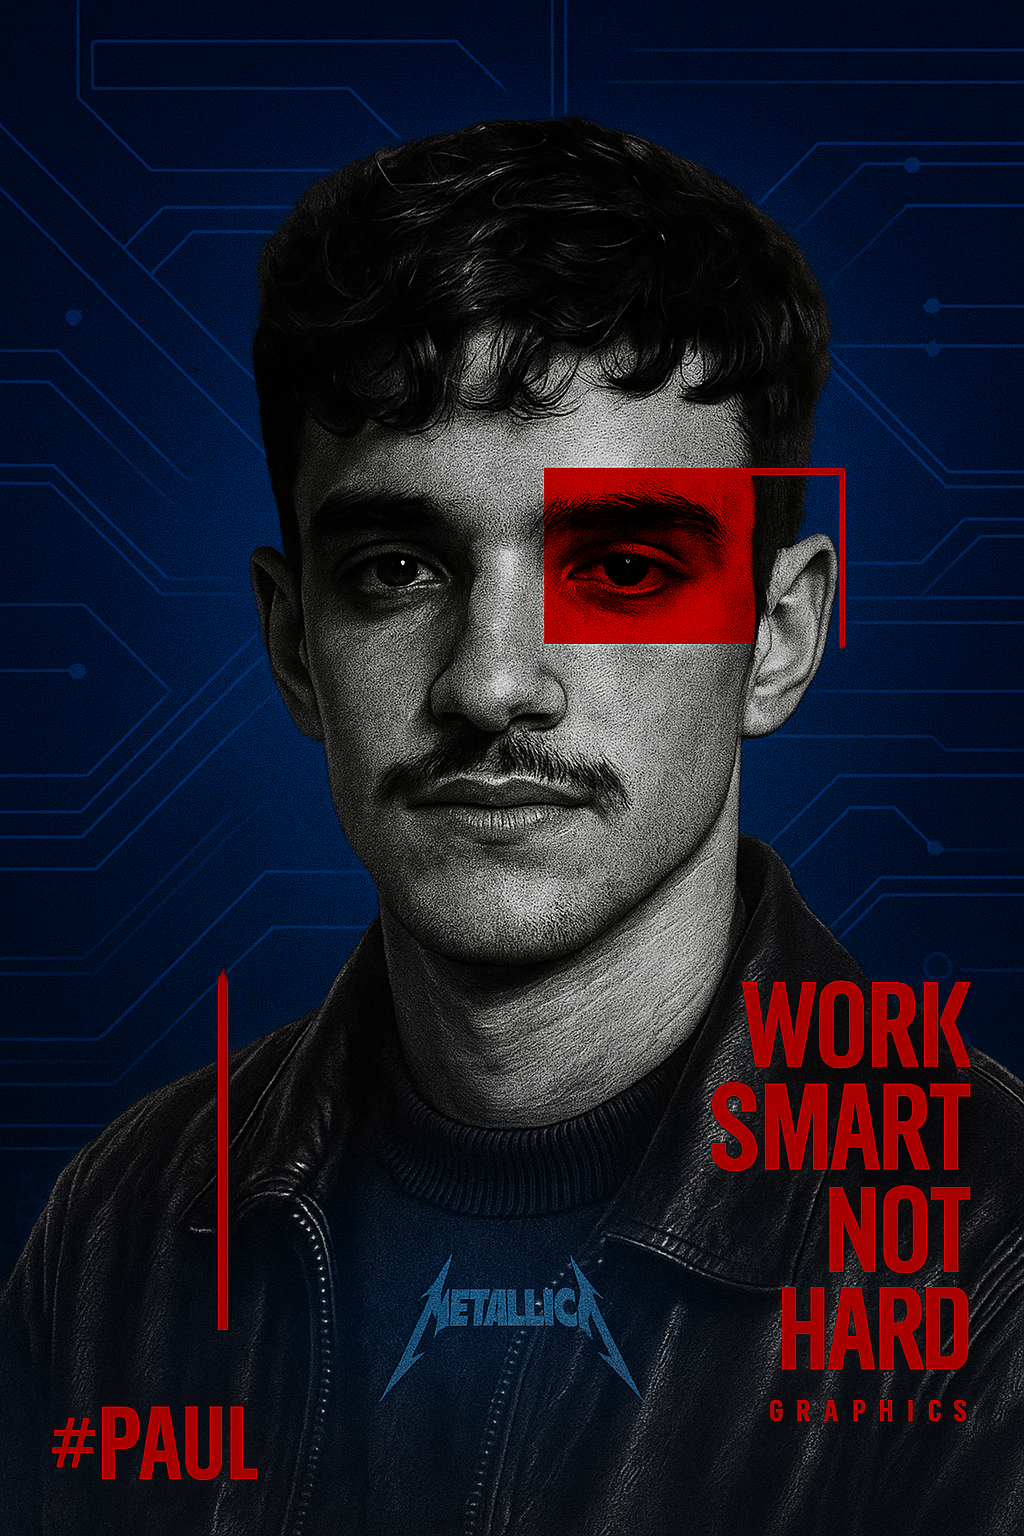
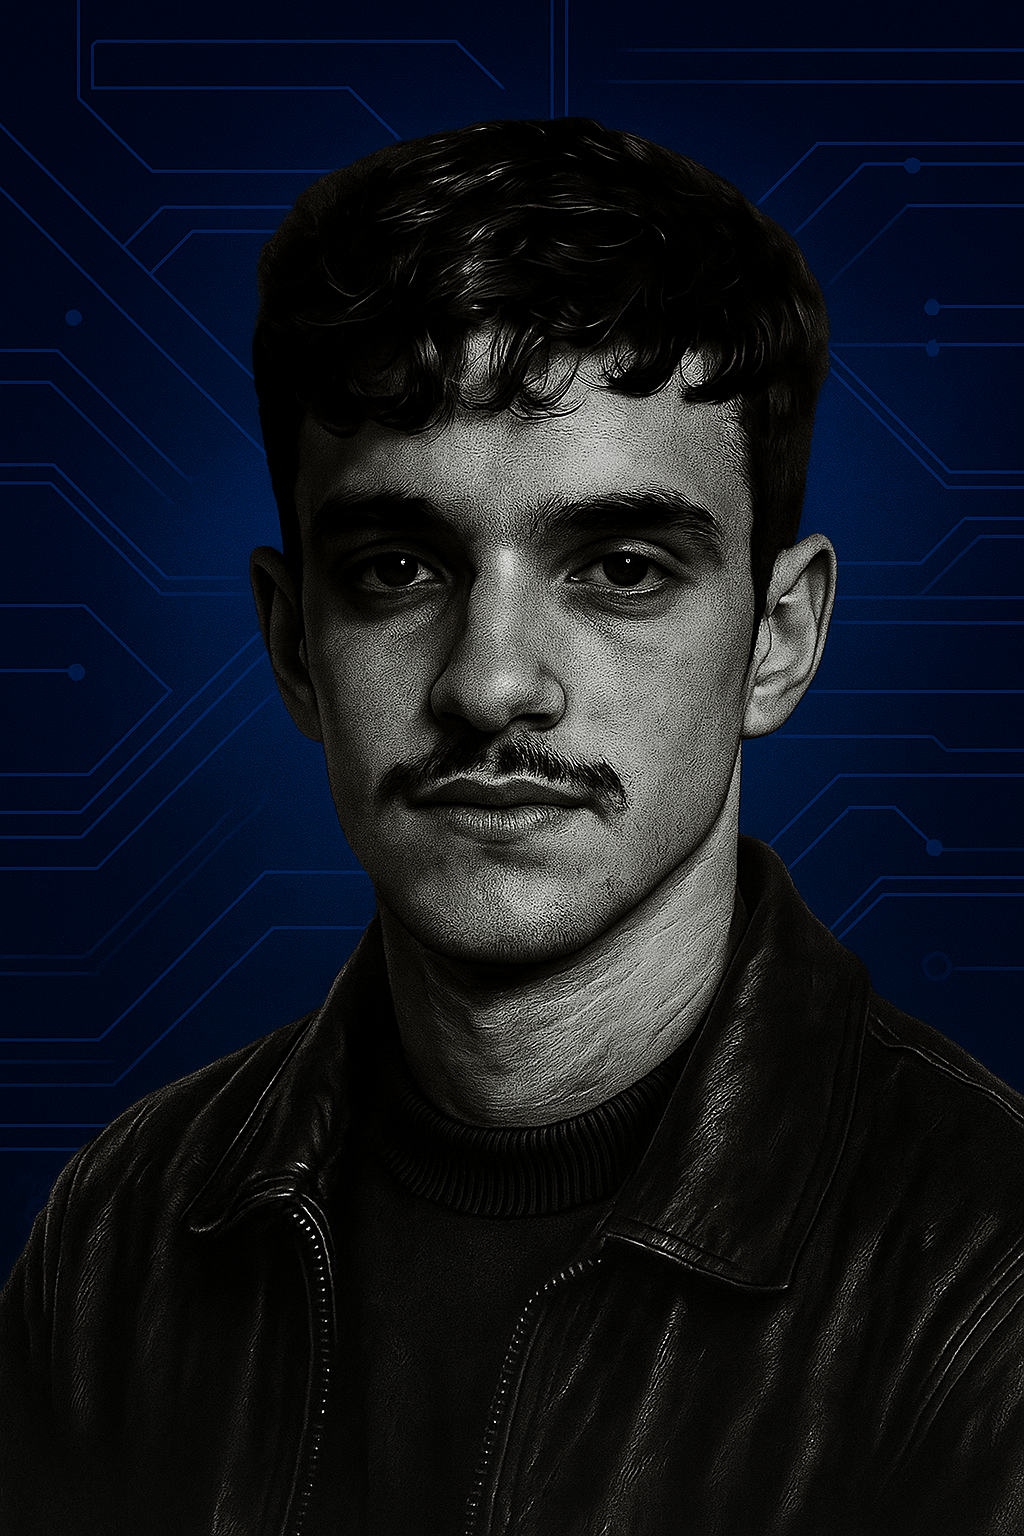
alterando foto de perfil

diff --git a/index.html b/index.html
@@ -82,7 +82,7 @@
             <div class="flex flex-col md:flex-row items-center">
                 <div class="md:w-1/3 mb-10 md:mb-0 flex justify-center">
                     <div class="w-64 h-64 rounded-lg overflow-hidden border-2 border-blue-400">
-                        <img src="https://images.unsplash.com/photo-1571171637578-41bc2dd41cd2?ixlib=rb-4.0.3&ixid=M3wxMjA3fDB8MHxwaG90by1wYWdlfHx8fGVufDB8fHx8fA%3D%3D&auto=format&fit=crop&w=1740&q=80" 
+                        <img src="./public/img/example.jpg" 
                              alt="Trabalhando" 
                              class="w-full h-full object-cover">
                     </div>
